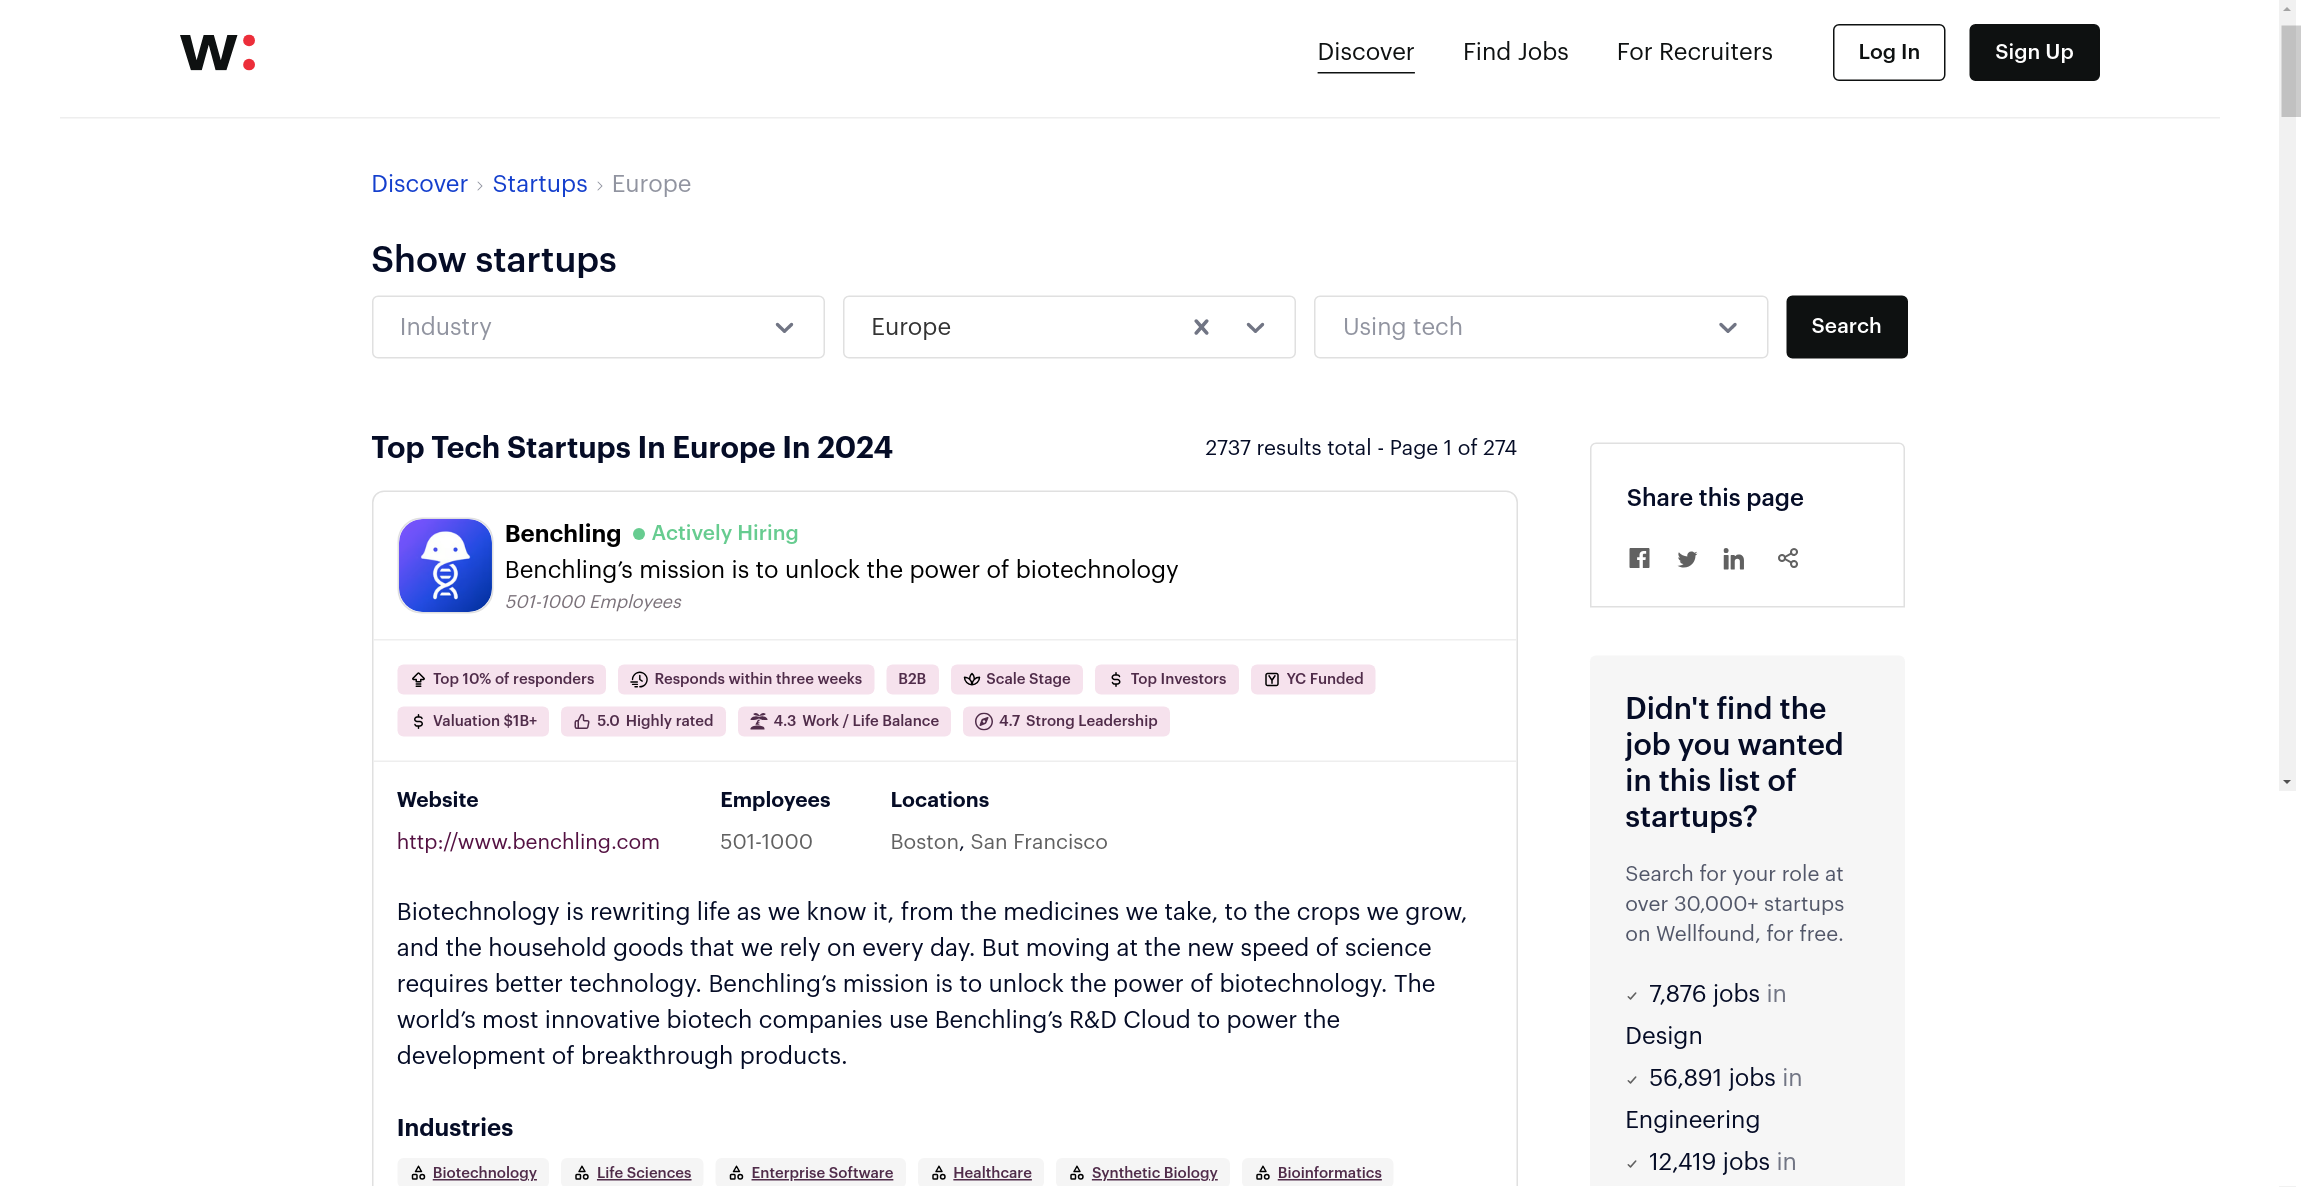
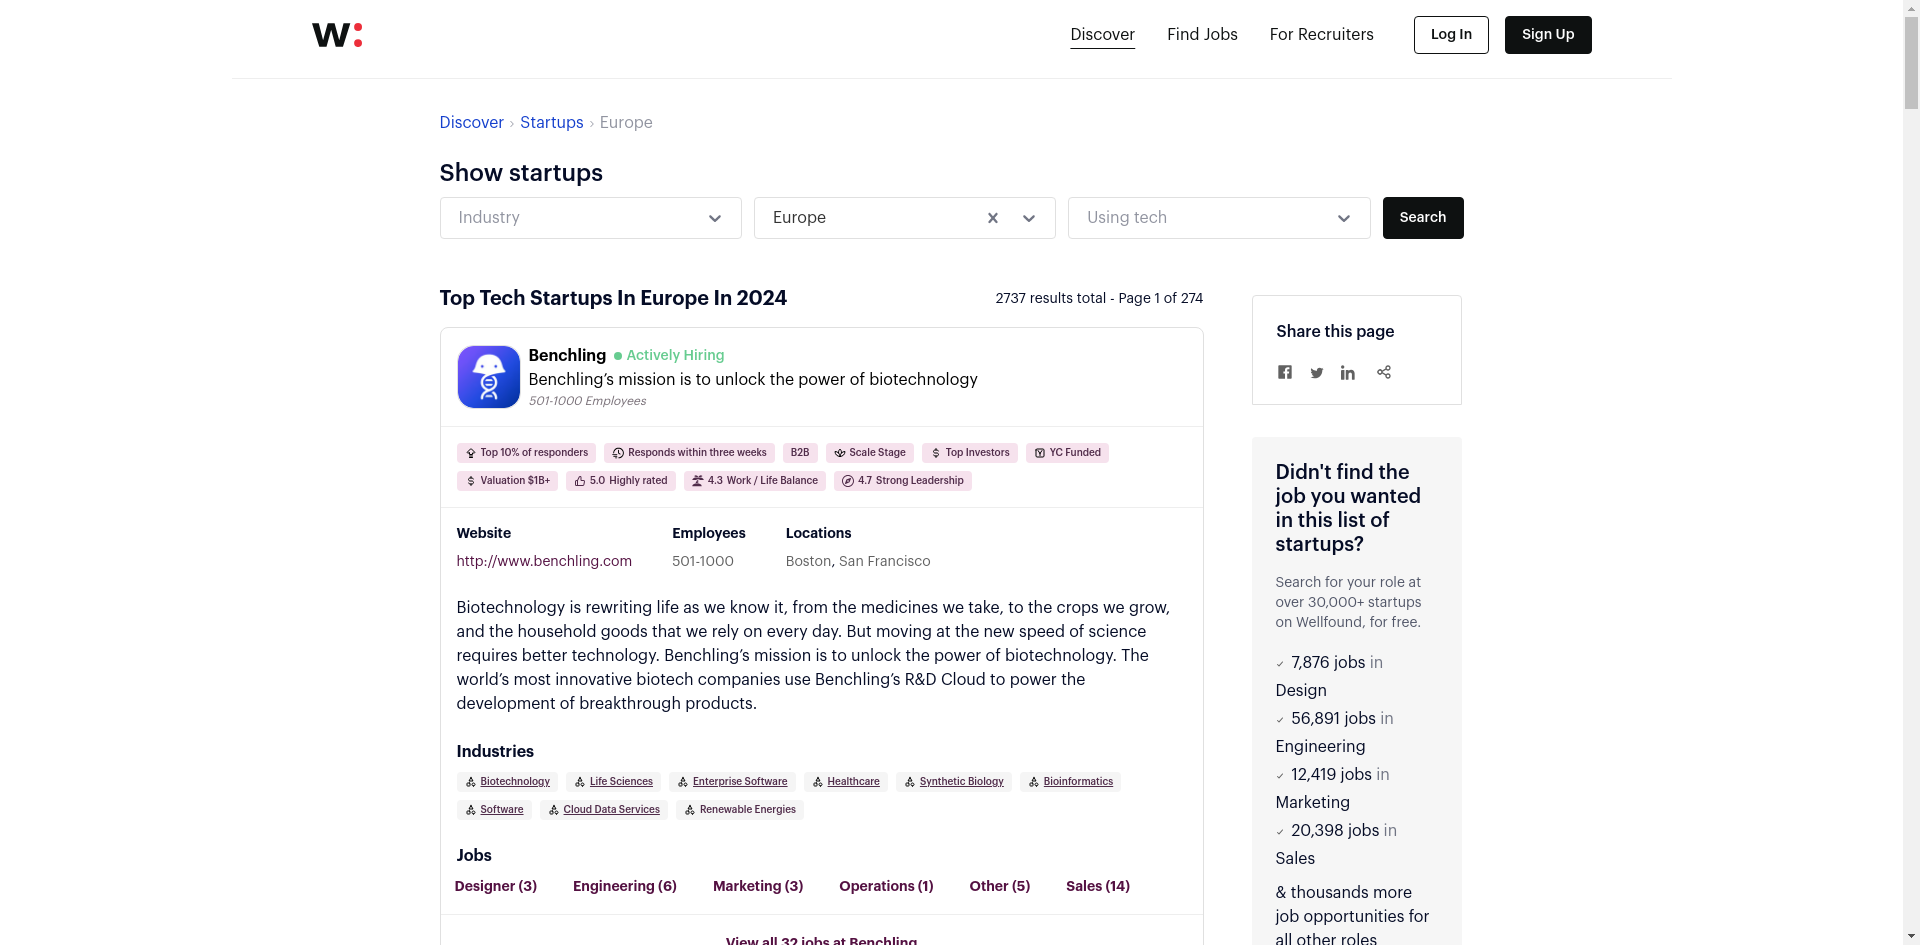
fix index problems

diff --git a/backend/webscraper/main.py b/backend/webscraper/main.py
@@ -99,7 +99,7 @@ if "confirmed_urls" in st.session_state and st.session_state["confirmed_urls"]:
     # Display companies with links in a checkbox list
     st.subheader("Select Companies for Outreach")
     if company_data_list:
-        for company_entry in company_data_list:
+        for index, company_entry in enumerate(company_data_list):
             if ":" in company_entry:
                 parts = company_entry.split(": ")
                 company_name = parts[0].strip()
@@ -107,7 +107,7 @@ if "confirmed_urls" in st.session_state and st.session_state["confirmed_urls"]:
 
                 # Only add companies with valid links to the checkbox list
                 if company_link and company_link.startswith("http"):
-                    checkbox_key = f"{company_name}_{company_link}"
+                    checkbox_key = f"{company_name}_{company_link}_{index}"
                     if st.checkbox(f"{company_name} - [Link]({company_link})", key=checkbox_key):
                         st.session_state["company_selection"][company_name] = company_link
 
